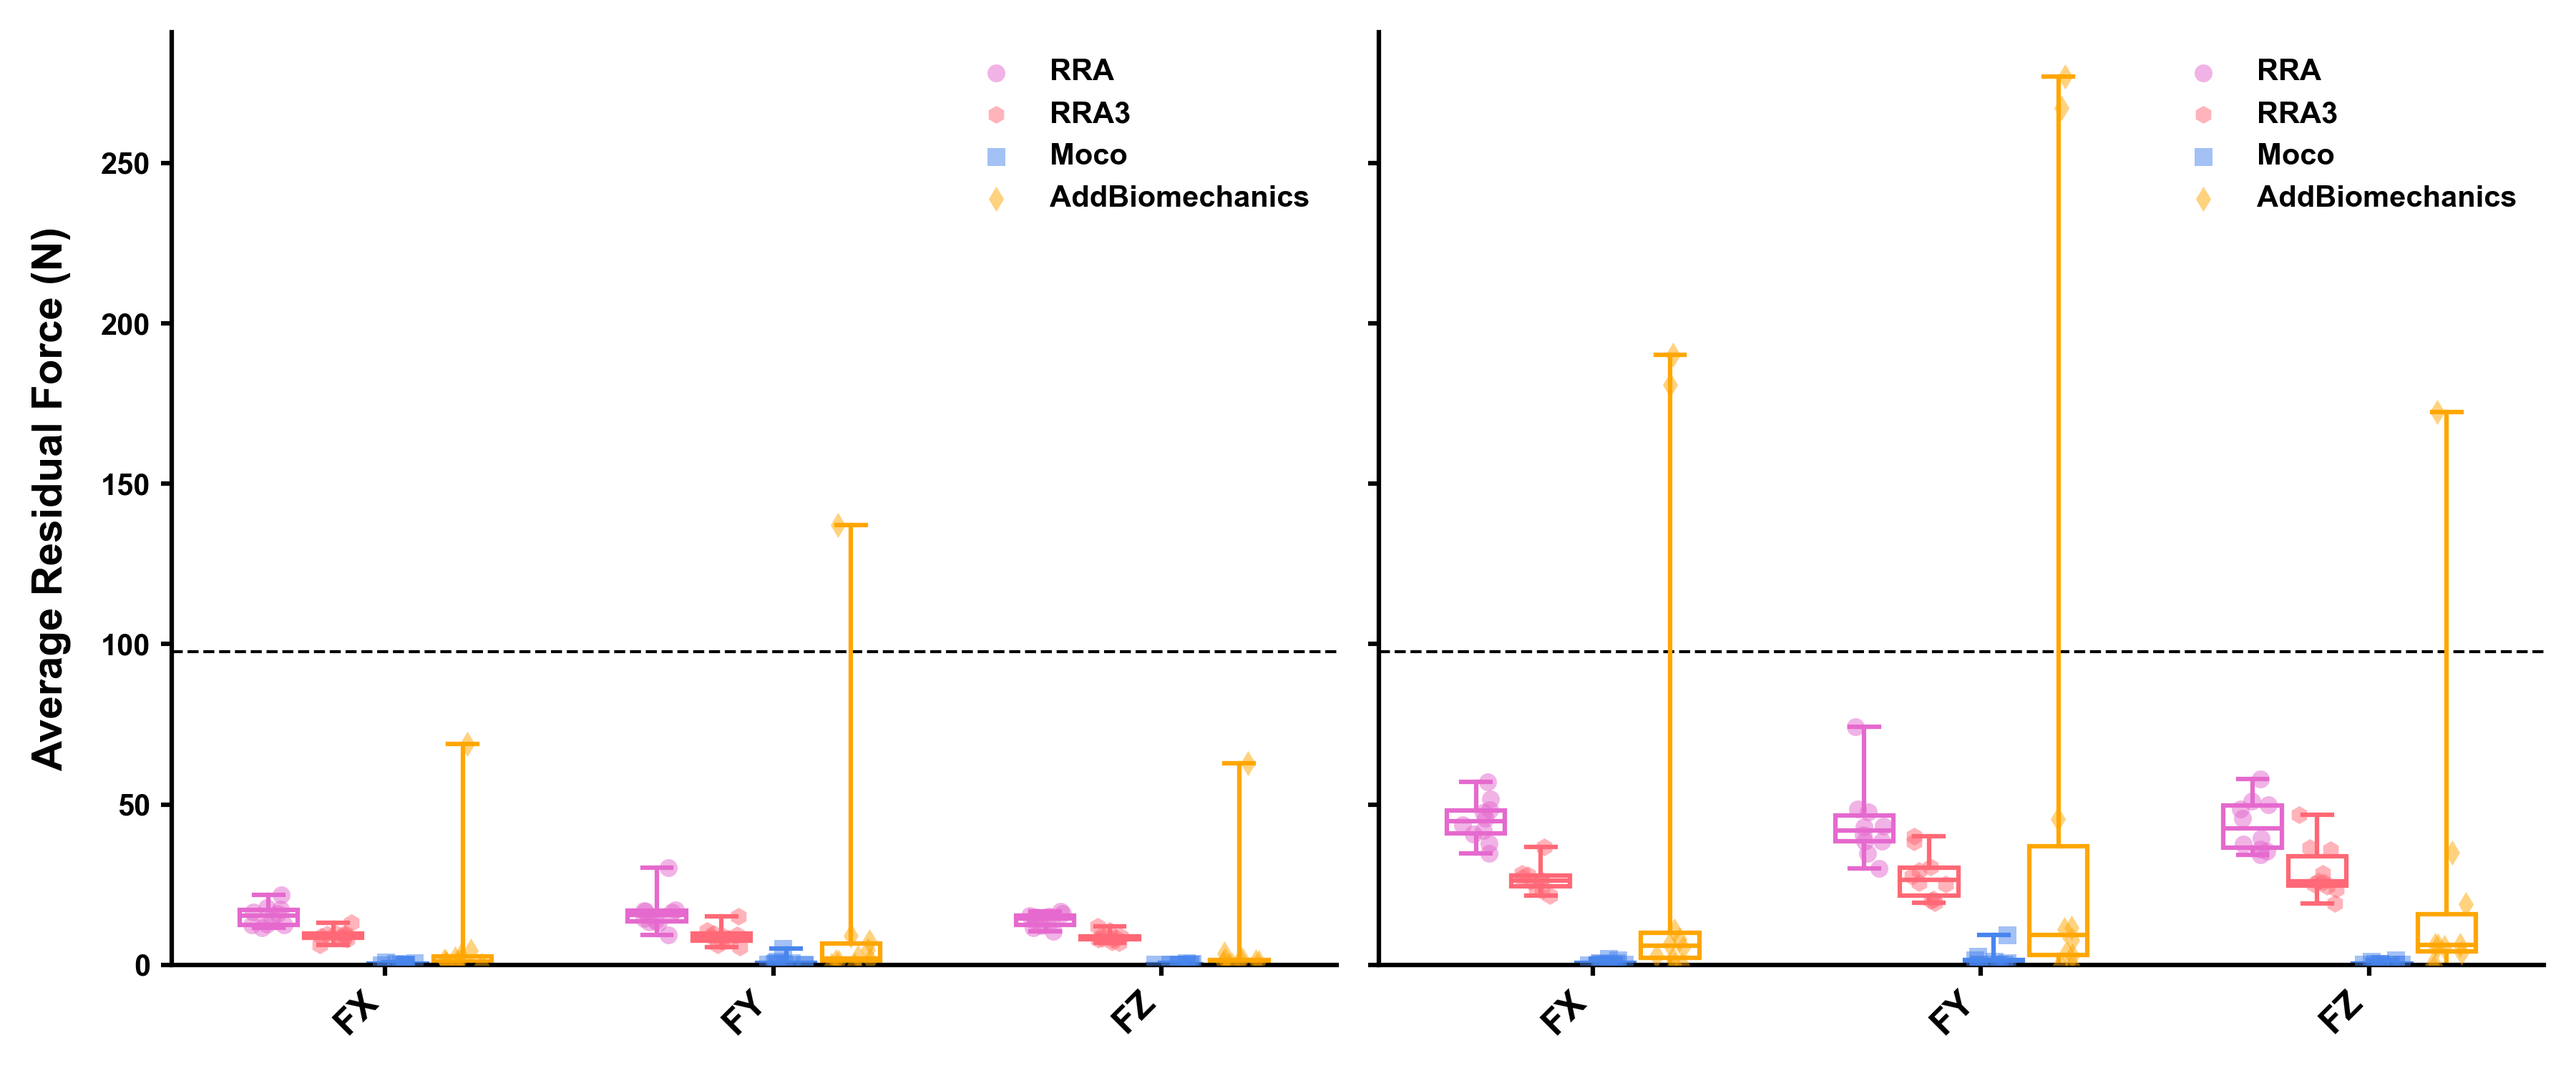
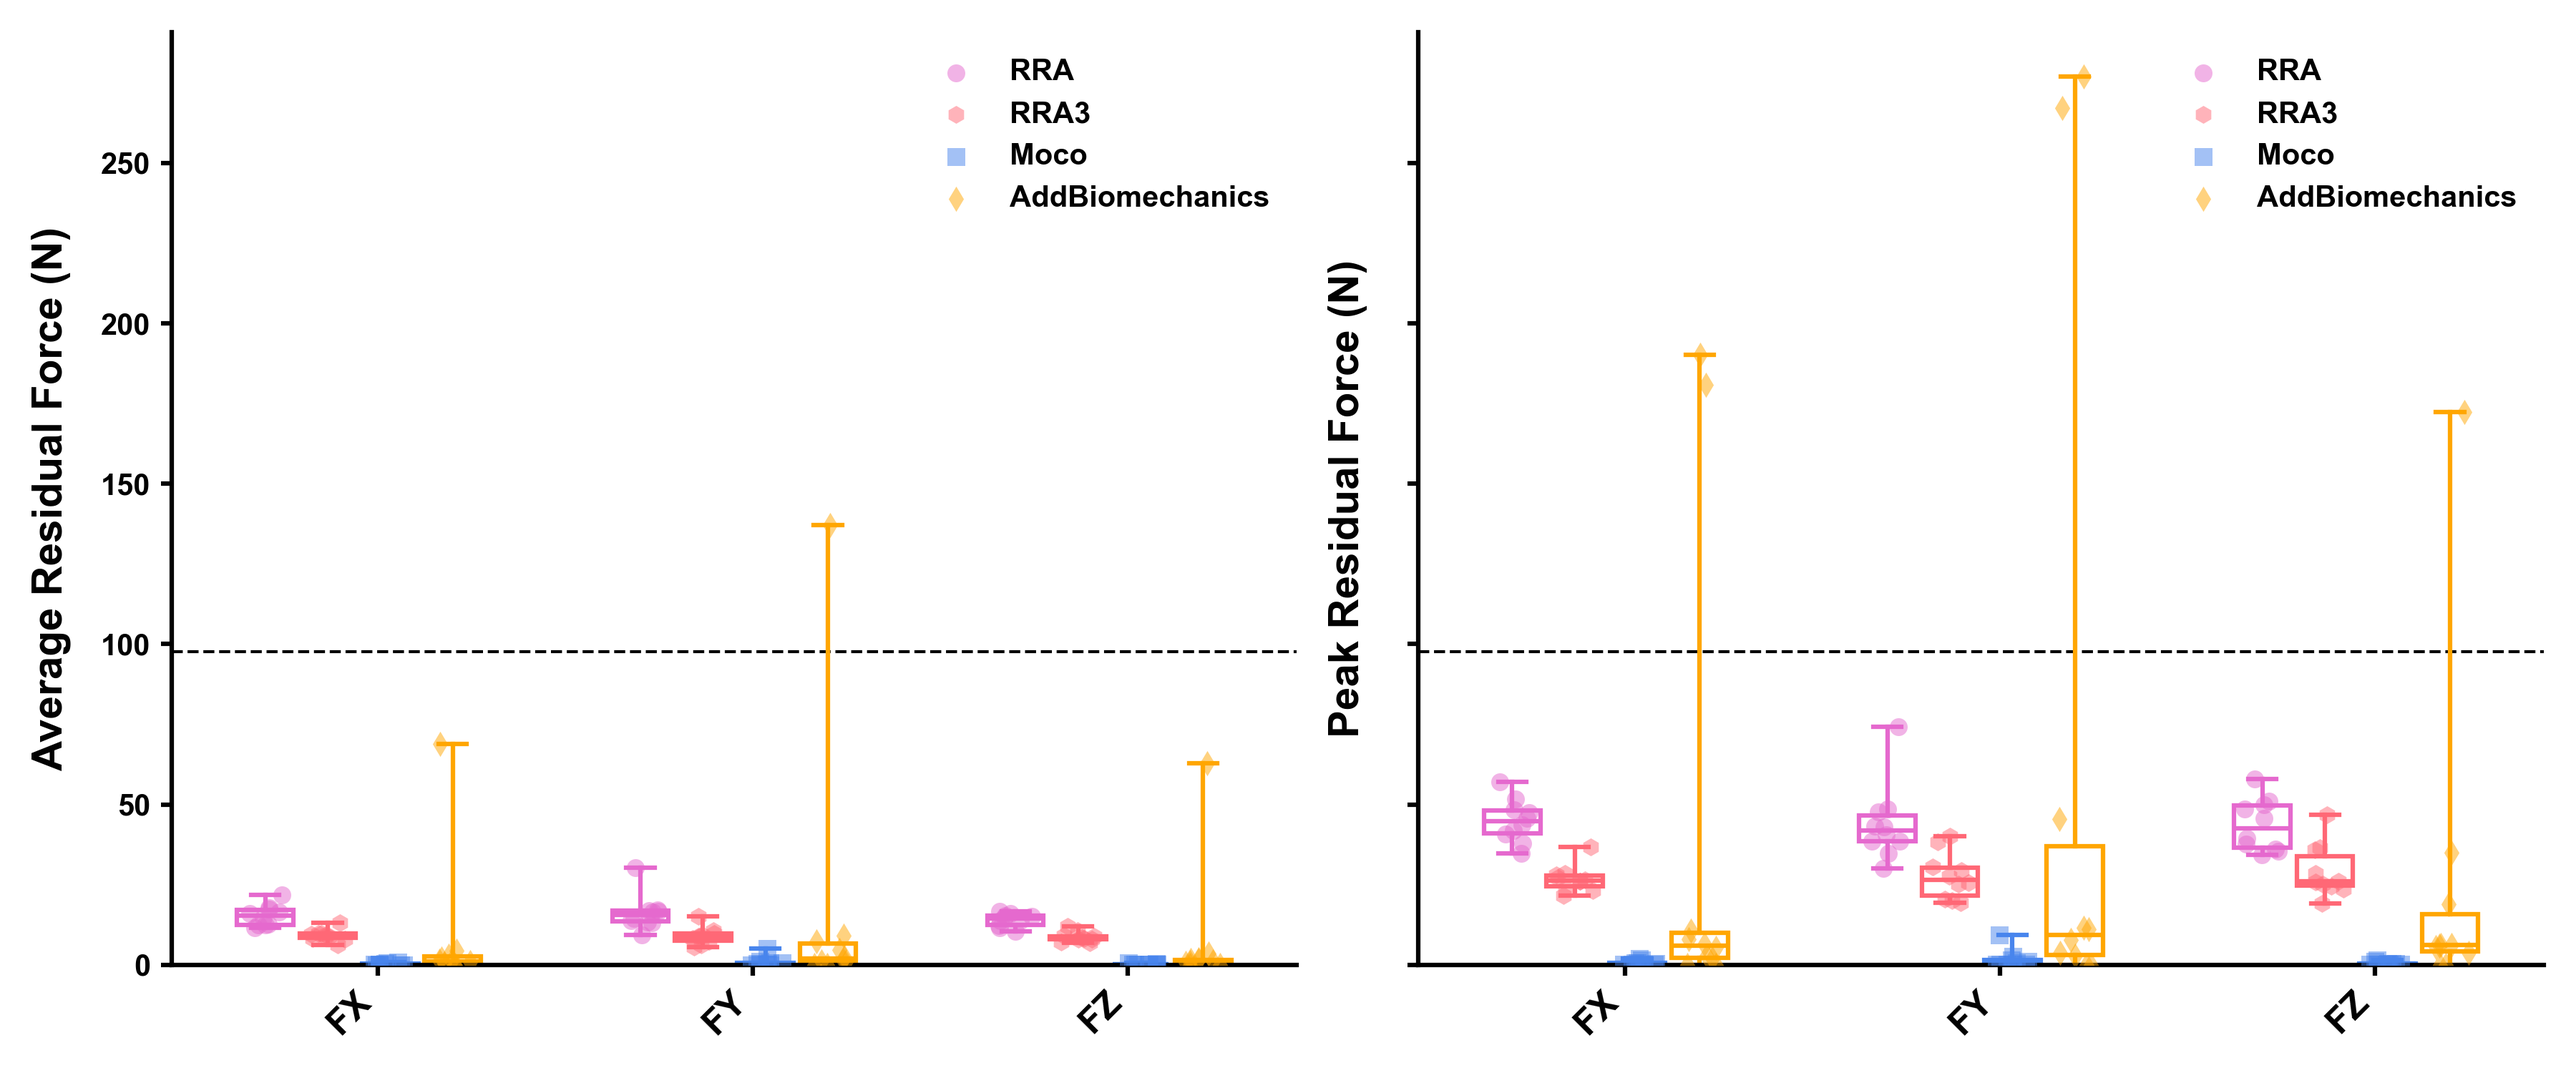
Updated figures to include all y-axis labels.

diff --git a/code/HamnerDelpDataset/runSimulations.py b/code/HamnerDelpDataset/runSimulations.py
@@ -2980,7 +2980,7 @@ if analyseData:
                                           columns = ['Peak Residual Moment', 'Solver', 'Axis', 'Subject'])
         
     #Create figure for residual forces
-    fig, ax = plt.subplots(nrows = 1, ncols = 2, figsize = (12,5), sharey = True)
+    fig, ax = plt.subplots(nrows = 1, ncols = 2, figsize = (12,5))
     
     #Set colouring order for boxplots
     bpColOrder = [rraCol, rra3Col, mocoCol, addBiomechCol]
@@ -3157,6 +3157,11 @@ if analyseData:
     ax[1].spines['right'].set_visible(False)
     ax[1].spines['top'].set_visible(False)
     
+    #Set average residual ticks to match peak residual ticks
+    ax[0].set_ylim(ax[1].get_ylim())
+    ax[0].set_ticks(ax[1].get_ticks())
+    ax[1].set_yticklabels([])
+    
     #Tight layout
     plt.tight_layout()
     
@@ -3168,7 +3173,7 @@ if analyseData:
     plt.close()
     
     #Create figure for residual moments
-    fig, ax = plt.subplots(nrows = 1, ncols = 2, figsize = (12,5), sharey = True)
+    fig, ax = plt.subplots(nrows = 1, ncols = 2, figsize = (12,5))
     
     #Create position dictionary for variables
     varPosX = {resVar: np.linspace(0.4 + ['MX','MY','MZ'].index(resVar),
@@ -3341,6 +3346,11 @@ if analyseData:
     #Despine top and right axes
     ax[1].spines['right'].set_visible(False)
     ax[1].spines['top'].set_visible(False)
+    
+    #Set average residual ticks to match peak residual ticks
+    ax[0].set_ylim(ax[1].get_ylim())
+    ax[0].set_ticks(ax[1].get_ticks())
+    ax[1].set_yticklabels([])
     
     #Tight layout
     plt.tight_layout()
